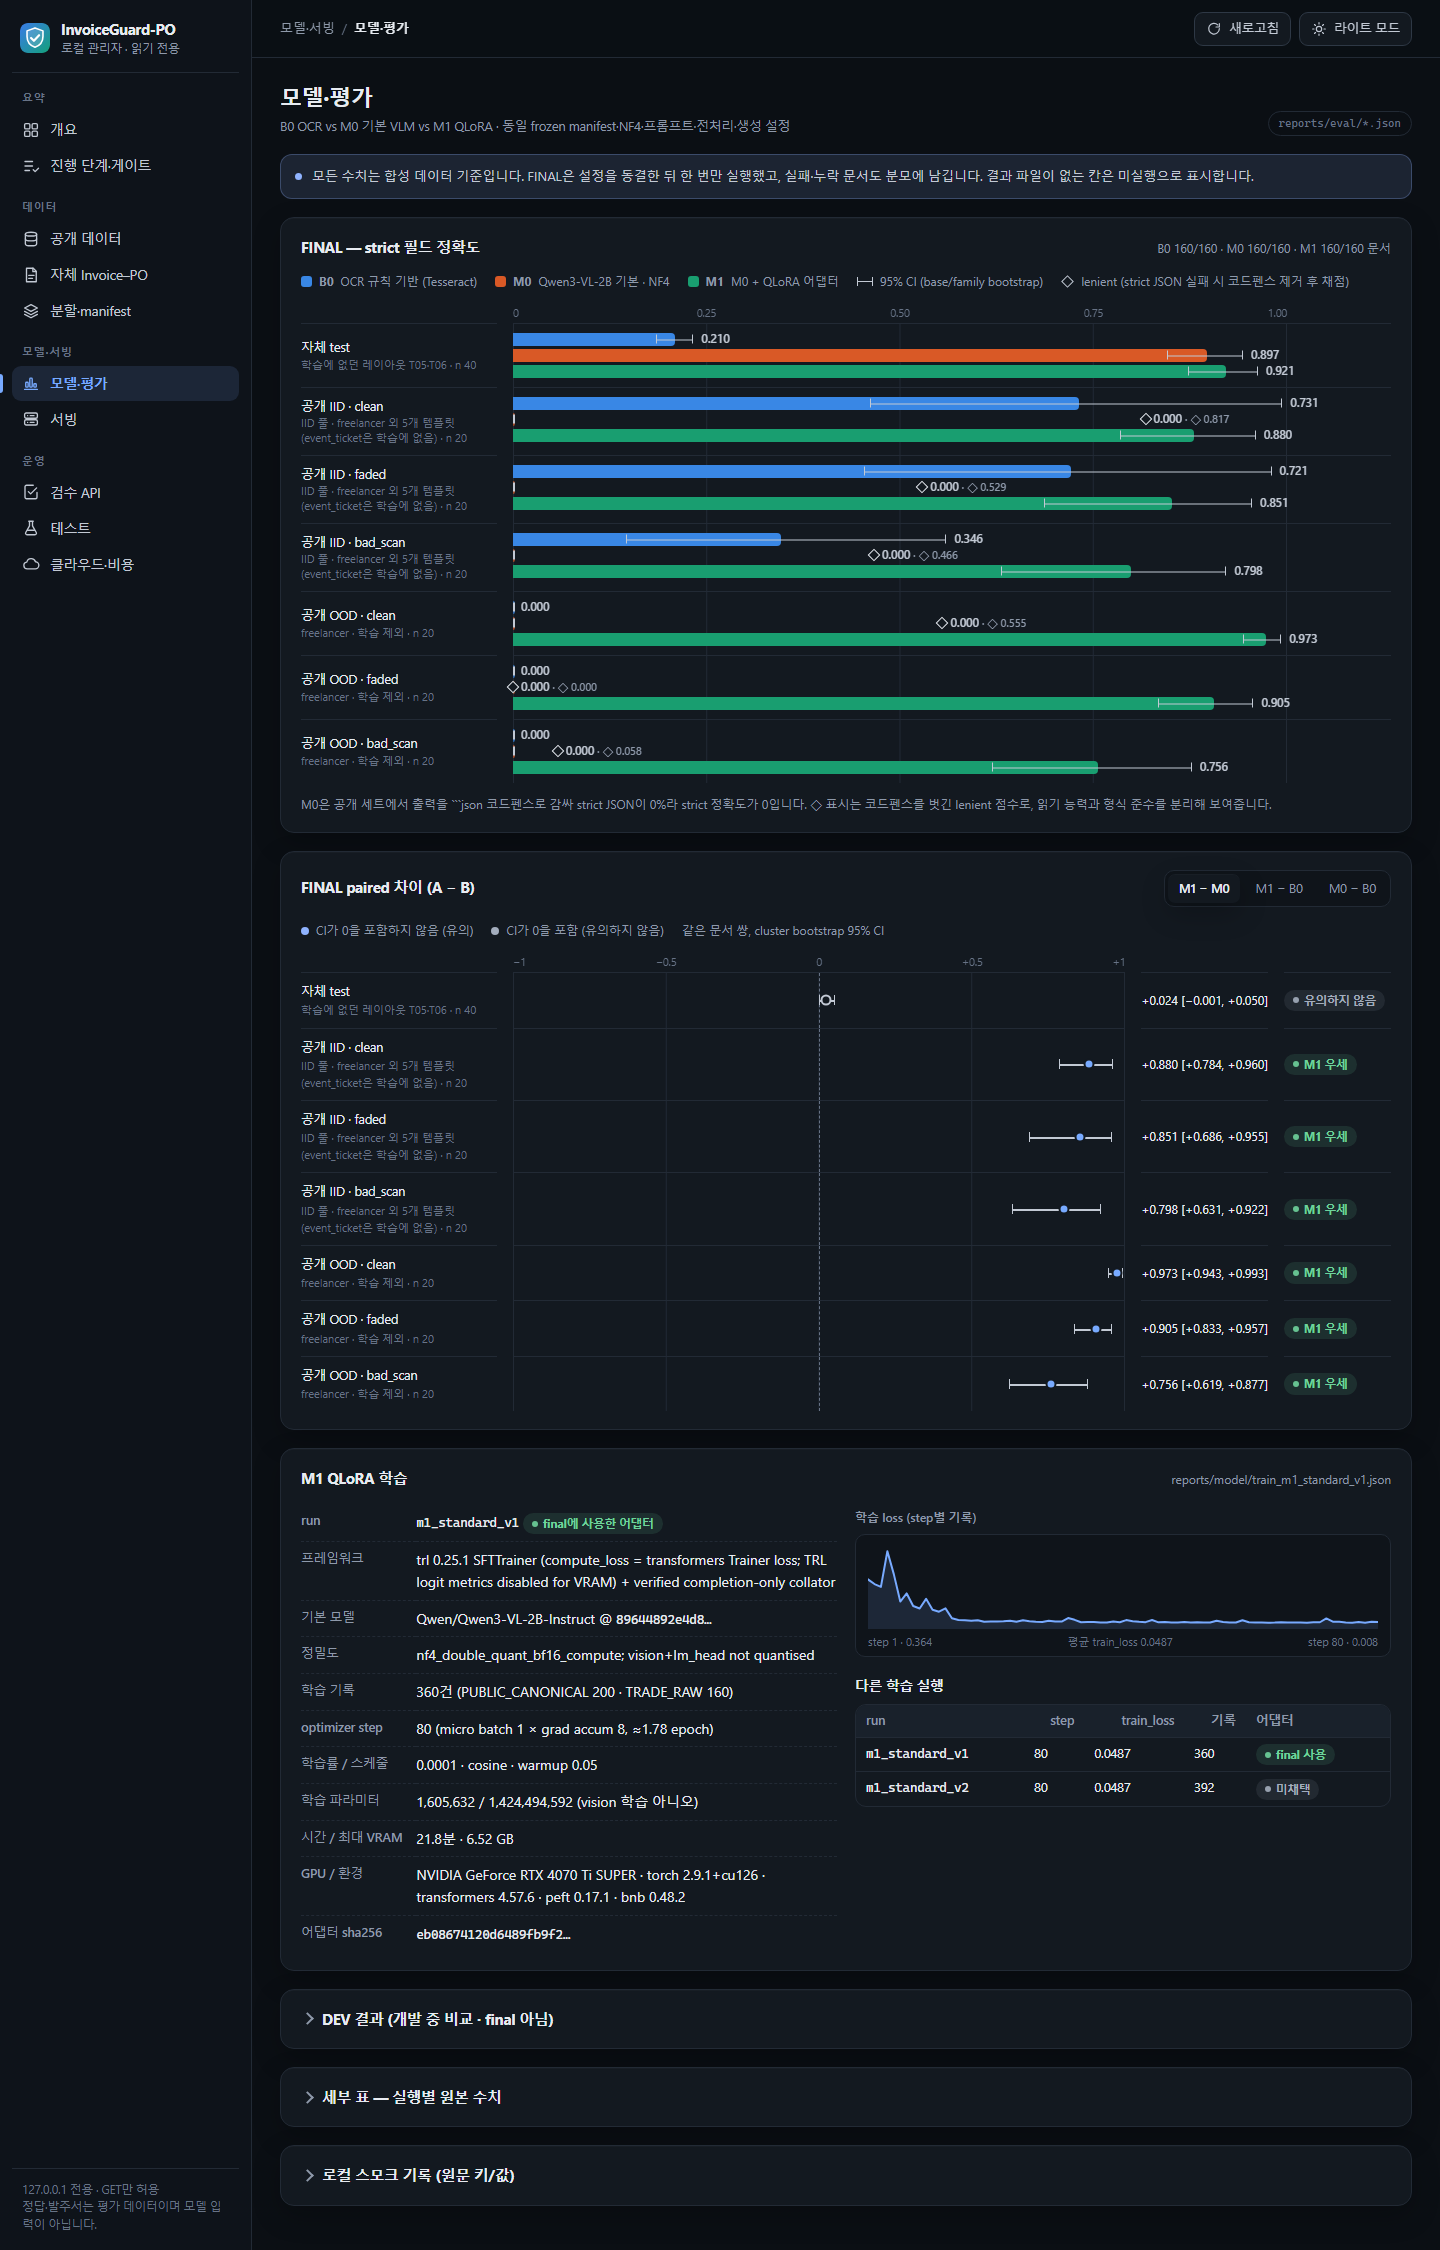
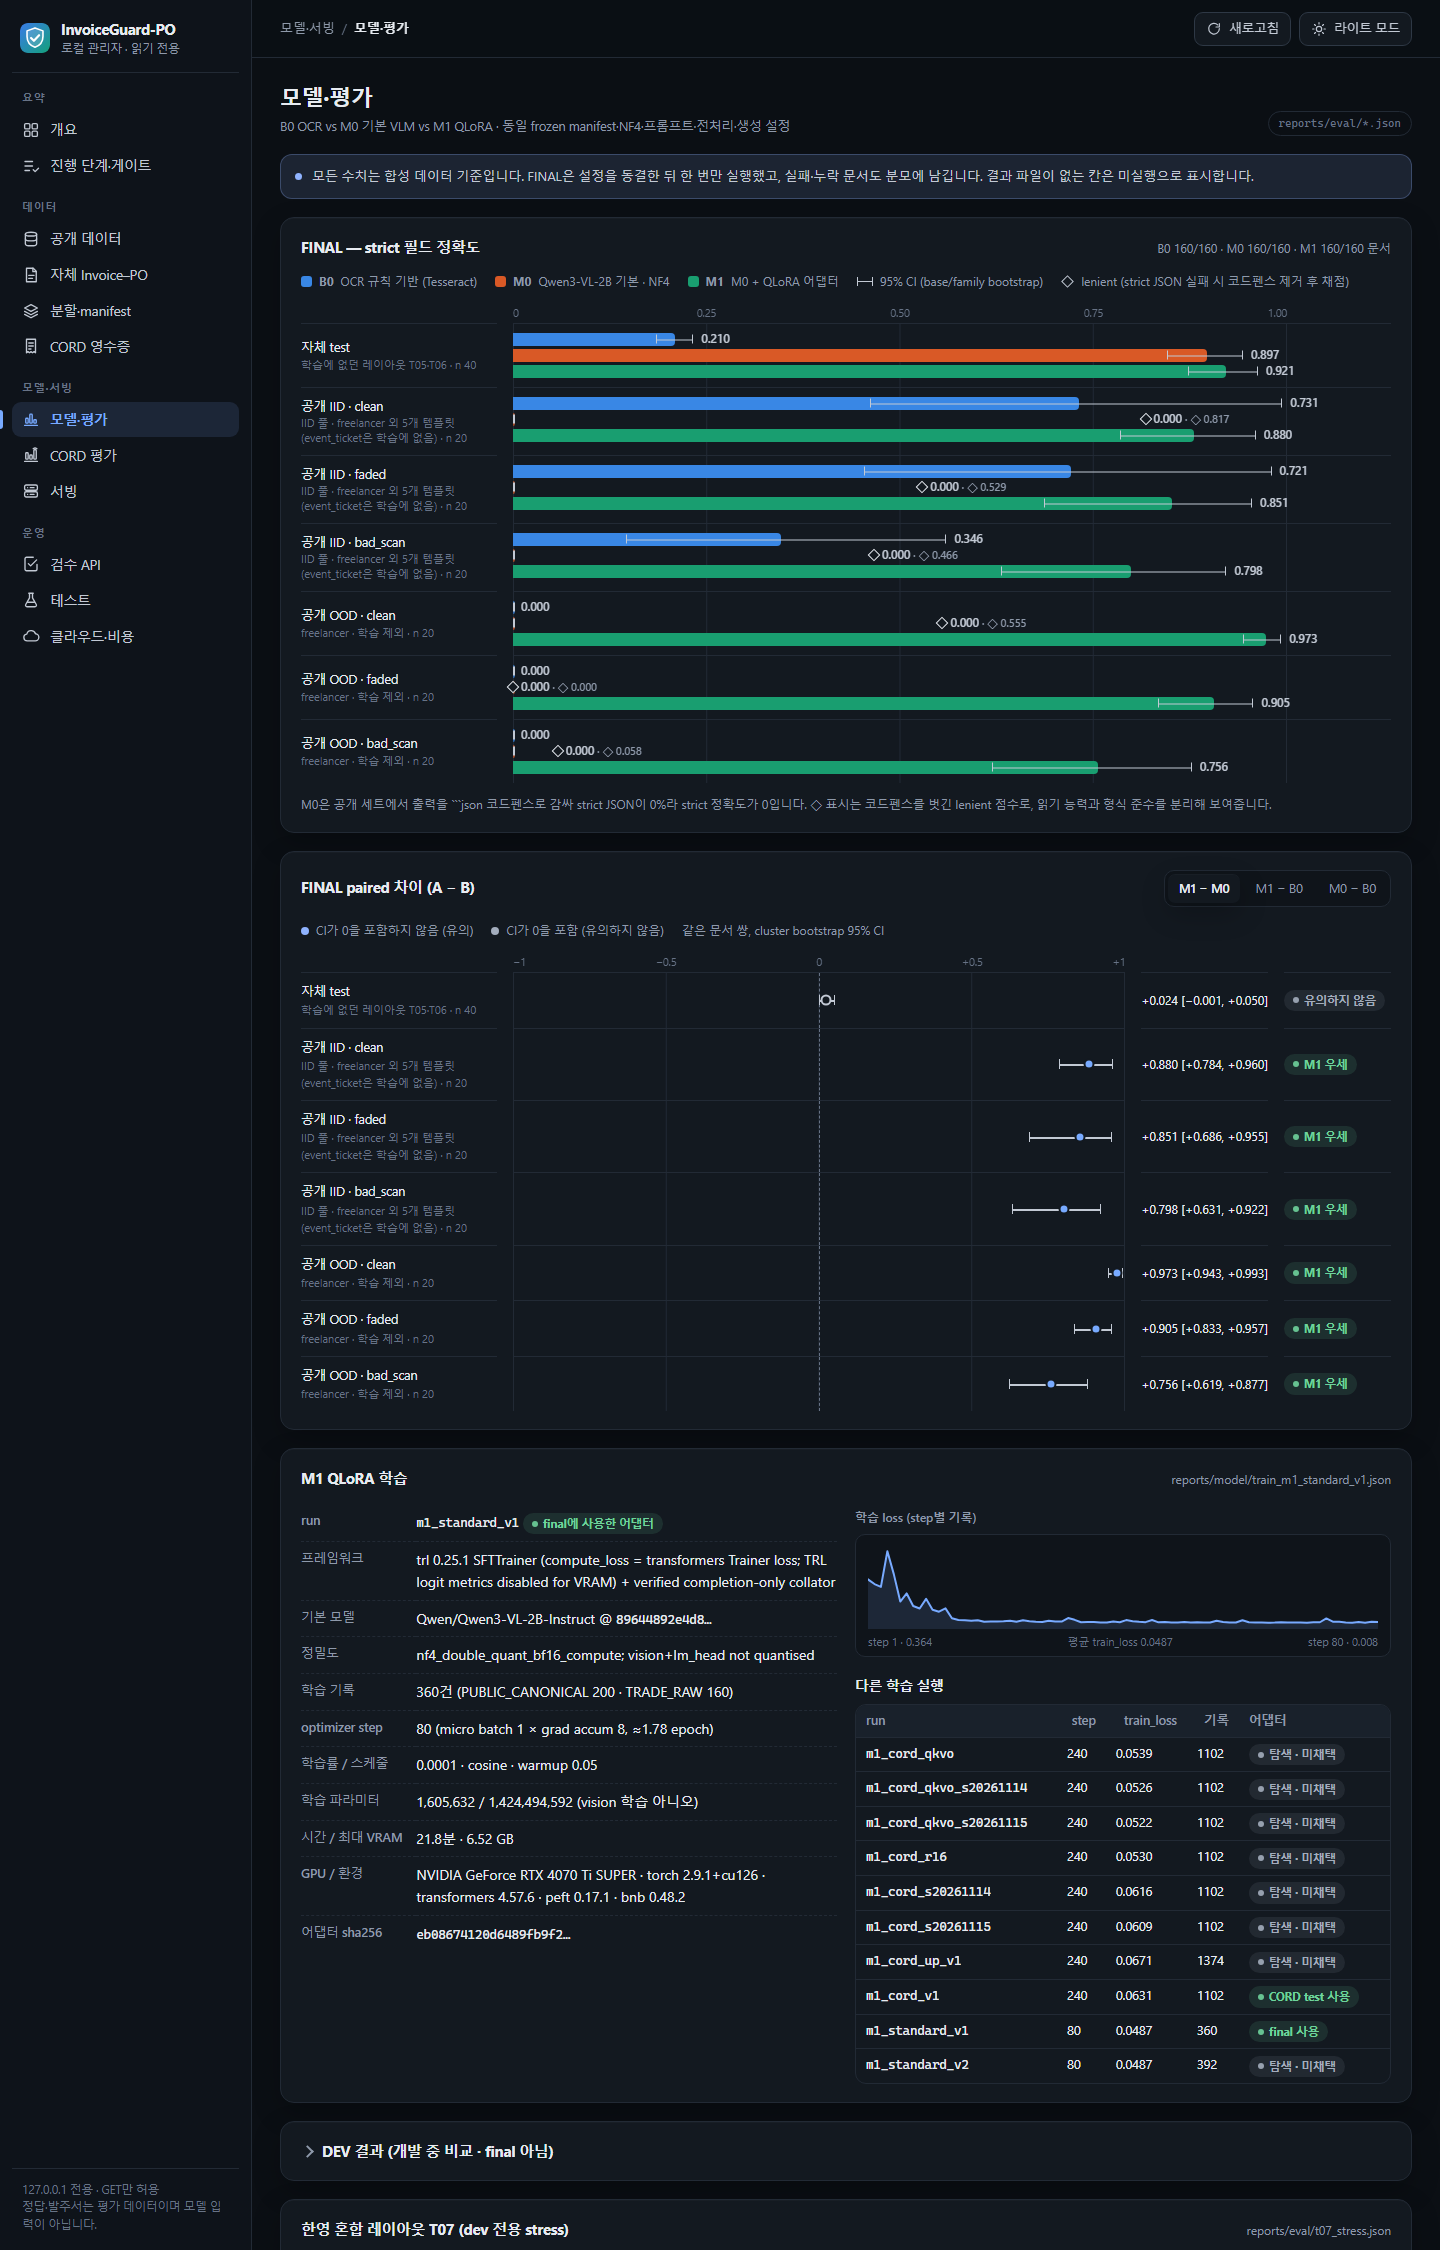
Dashboard refresh: cloud spend from the billing record, serving tile = full-dev parity with two adapters, CORD test adapter labelled; task board T05-T07; new screenshots; review-6 brief for astra

diff --git a/src/invoiceguard/dashboard_static/app.js b/src/invoiceguard/dashboard_static/app.js
@@ -351,7 +351,9 @@
         kpi("FINAL 평가", den.length ? String(Math.min(...den.map((d) => d.predicted))) : "—", den.length ? "/ " + den[0].expected + " 문서" : "",
           den.length ? "동결 후 1회 · " + Object.keys(finals).map((k) => ARMS[k].name).join("·") + " 같은 문서" + (complete ? " · 누락 0" : " · 누락 있음") : "final 기록 없음", complete ? "ok" : den.length ? "warn" : "idle"),
         kpi("CPU 테스트", passed === null ? "—" : String(passed), junit ? "/ " + junit.tests : "", junit ? "건너뜀 " + junit.skipped + " · 실패 " + (junit.failures + junit.errors) + " · " + junit.mtime : "junit 기록 없음", junit && !junit.failures && !junit.errors ? "ok" : "warn", junit ? passed / Math.max(1, junit.tests) : null),
-        kpi("클라우드 지출", ho.active_paid_resources_from_this_project && /^none/.test(ho.active_paid_resources_from_this_project) ? "$0" : "미확인", "", clean(ho.active_paid_resources_from_this_project) || "SESSION_HANDOFF 기록 없음", "idle")),
+        kpi("클라우드 지출", s.billing ? "$" + fmt(s.billing.account_totals_usd.total, 2) : "미확인", "", s.billing
+          ? "청구 기록 · Pod " + (s.billing.pods || []).length + "대 · 현재 유료 리소스 " + ((ho.active_paid_resources_from_this_project || "").startsWith("none") ? "없음" : "확인 필요")
+          : clean(ho.active_paid_resources_from_this_project) || "청구 기록 없음", s.billing ? "ok" : "idle")),
       finalSets.length
         ? h("section", { class: "card" }, h("div", { class: "cardhead" }, h("h2", null, "FINAL 결과 — strict 필드 정확도"), h("a", { href: "#/model" }, "모델·평가에서 자세히 →")),
           armLegend(), armChart(finals, finalSets),
@@ -712,7 +714,7 @@
             : h("p", { class: "sub" }, "loss 기록 없음"),
           runs.length > 1 ? [h("h3", null, "다른 학습 실행"), table(["run", ["step", "num"], ["train_loss", "num"], ["기록", "num"], "어댑터"],
             runs.map((r) => h("tr", null, h("td", { class: "mono" }, r.run_id), h("td", { class: "num" }, String(r.optimizer_steps)), h("td", { class: "num" }, fmt(r.train_loss, 4)),
-              h("td", { class: "num" }, String(r.records)), h("td", null, used(r) ? pillCls("ok", "final 사용") : finalAdapter ? pillCls("idle", "미채택") : "—"))), "small")] : null)));
+              h("td", { class: "num" }, String(r.records)), h("td", null, used(r) ? pillCls("ok", "final 사용") : r.run_id === "m1_cord_v1" ? pillCls("ok", "CORD test 사용") : finalAdapter ? pillCls("idle", "탐색 · 미채택") : "—"))), "small")] : null)));
   }
   // Korean-English mixed layout T07 (docs/20 amendment 6): dev-only stress set, three arms, strict and fence-stripped.
   function t07Card(t) {
@@ -1125,6 +1127,7 @@
     const s = await status();
     const sv = s.serving || {}, ho = s.handoff || {};
     const bench = sv.hf_peft_nf4_local, probe = sv.hf_cancel_probe;
+    const multi = [sv.hf_multi_lora_trade, sv.hf_multi_lora_cord].filter((m) => m && m.arms && m.arms.m1);
     const t07 = (s.tasks || []).find((t) => t.id === "T07");
     const arms = bench ? Object.keys(bench.arms || {}) : [];
     const m1c1 = bench && bench.arms.m1 && bench.arms.m1.bench ? bench.arms.m1.bench["1"] : null;
@@ -1160,7 +1163,10 @@
       ho["vLLM 서빙"] ? banner("vLLM: " + recordedStatus(ho["vLLM 서빙"]) + (s.handoff_decision ? " — 사용자 결정: " + clean(s.handoff_decision) : "")) : t07 ? banner(t07.evidence) : null,
       statusErrors(s),
       bench ? h("div", { class: "kpis" },
-        kpi("서버 = 오프라인 출력", allSame ? "100" : arms.map((a) => fmt(bench.arms[a].identical_raw_rate * 100, 0)).join("/"), "%", "같은 " + (bench.docs || []).length + "문서 원문 출력 일치 (" + arms.map(runName).join("·") + ")", allSame ? "ok" : "warn"),
+        multi.length === 2
+          ? kpi("서버 = 오프라인 출력", multi.every((m) => m.arms.m1.identical_raw_rate === 1) ? "100" : multi.map((m) => fmt(m.arms.m1.identical_raw_rate * 100, 0)).join("/"), "%",
+              "dev 전체 " + multi.map((m) => (m.docs || []).length).join(" + ") + "문서 원문 일치 · 어댑터 2개 서버(M1 v1 · M1-cord)", multi.every((m) => m.arms.m1.identical_raw_rate === 1) ? "ok" : "warn")
+          : kpi("서버 = 오프라인 출력", allSame ? "100" : arms.map((a) => fmt(bench.arms[a].identical_raw_rate * 100, 0)).join("/"), "%", "같은 " + (bench.docs || []).length + "문서 원문 출력 일치 (" + arms.map(runName).join("·") + ")", allSame ? "ok" : "warn"),
         m1c1 ? kpi("M1 지연 p50 · 동시 1", fmt(m1c1.p50_s, 1), "s", "p95 " + fmt(m1c1.p95_s, 1) + "s · 요청 " + m1c1.requests + "건", "run") : null,
         m1c1 ? kpi("M1 처리량 · 동시 1", fmt(m1c1.docs_per_min, 2), "문서/분", "GPU 1개, 배치 1 (동시 생성 없음)", "run") : null,
         probe ? kpi("타임아웃 취소", String(probe.timeout_cancel_test.http_status), "", "제한 " + probe.timeout_cancel_test.request_timeout_s + "s · GPU " + fmt(probe.timeout_cancel_test.gpu_seconds, 2) + "s 후 중단", "ok") : null)

diff --git a/src/invoiceguard/dashboard_server.py b/src/invoiceguard/dashboard_server.py
@@ -412,6 +412,8 @@ def status_body(store: DataStore) -> dict[str, Any]:
     return {
         "tasks": tasks, "gates": gates,
         "evaluations": evaluations, "comparisons": comparisons,
+        "billing": _safe(errors, "reports/runpod2/billing.json", lambda: _read_json(repo / "reports" / "runpod2" / "billing.json"))
+        if (repo / "reports" / "runpod2" / "billing.json").exists() else None,
         "t07": _safe(errors, "reports/eval/t07_stress.json", lambda: _read_json(repo / "reports" / "eval" / "t07_stress.json"))
         if (repo / "reports" / "eval" / "t07_stress.json").exists() else None,
         "hardware": (config or {}).get("hardware"),

diff --git a/reports/TASK_BOARD.md b/reports/TASK_BOARD.md
@@ -10,9 +10,9 @@
 | T02 | 누수 없는 분할·합성 렌더러·채점기·대사 규칙 | 로컬 | passed_with_evidence | 공개 manifest 1495b06a… 누수 0 / 자체 224건 manifest f818ae30… 렌더=정답·family 누수 0 / 대사 B01–B12·평가기 E01–E05 / pytest 106 pass (CPU only) |
 | T03 | 실견적 승인·SSH/백업 검사·모델/10스텝 smoke | 로컬 GPU(승인) / RunPod | passed_with_evidence (local + RunPod) | 로컬: mask 360/360, 파일럿, 10-step QLoRA·재로드 pass. RunPod(2026-11-14, A40, 승인 $3.50): 실견적·호스트키·scp 왕복 SHA256·터널 pass, mask 360/360, 입력 해시 전부 일치, smoke pass, 80 step 재학습이 사전 고정 기준 5개 통과 (reports/runpod/RUNPOD_RUN.md) |
 | T04 | 프로필 동결·M0 기준선·M1 학습/재로드 | 로컬 GPU | passed_with_evidence | standard 동결(configs/frozen_v1.json), TRL M1 80 step·어댑터 eb086741…, 디스크 재로드 추론, M0/M1/B0 dev |
-| T05 | dev 실패 분석·개선 한 가지 | 로컬 | passed_with_evidence (negative) | 실패 분류(reports/eval/failures_m1_dev_v1.md), 개선=train 보강 32건 → 효과 없음, M1 v1 유지(dev_summary.md) |
-| T06 | 검수 UI/API·버전·승인·export | 로컬 | passed_with_evidence (minimal API) | FastAPI+SQLite 검수 API, CAS·스냅샷·429/503/504·재시작 복구. 11-15 검수 화면 추가(GET /, CSP self-only, 업로드 · 추출 · 행 수정 · 경고 사유 · 승인 · 내보내기, 브라우저 확인), API 테스트 15개 |
-| T07 | 실제 GPU API·지연/메모리/실패 측정 | 로컬 GPU / RunPod | passed_with_evidence (HF+PEFT local · vLLM RunPod) | HF 서버: 실제 타임아웃 취소·bounded queue·동시성 측정(reports/serving/). vLLM 0.11.2: 로컬은 드라이버로 blocked, RunPod A40에서 동시성 1–8 측정(실패 0). 실행 1의 vLLM M1 정확도 저하(0.849)는 어댑터·기본 모델 정밀도 불일치로 확인(reports/quant/), 실행 2(L40S)에서 NF4 역양자화 병합본으로 0.960 회복(HF와 같음)·FP8 처리량 +23–33 %(reports/runpod2/). 서버 큐·데드라인 회귀 테스트 6개(tests/test_serving_core.py), 리팩터링한 GPU 서버 실제 요청 6건 원문이 오프라인과 6/6 동일(reports/serving/hf_server_refactor_smoke.json). 11-15 재측정(모든 답 채점·상태 코드·5분 지속 부하): M1 v1 자체 dev, M1-cord CORD dev 모두 원문 10/10 동일, 동시 4 실패는 전부 429, 지속 부하 실패 0(reports/serving/hf_peft_nf4_local_{v2,sustained,cord,cord_sustained}.json) |
+| T05 | dev 실패 분석·개선 한 가지 | 로컬 | passed_with_evidence (합성: negative · CORD: 사전 등록 개선) | 실패 분류(reports/eval/failures_m1_dev_v1.md), 개선=train 보강 32건 → 효과 없음, M1 v1 유지(dev_summary.md). 11-15 CORD dev 사전 등록 시도: 단가 가중 · 프롬프트 = 실패, LoRA q·k·v·o = 단가 회복(seed 3개), 해상도 = 한글 오독 원인(docs/20 수정 3–8) |
+| T06 | 검수 UI/API·버전·승인·export | 로컬 | passed_with_evidence (API + 검수 화면) | FastAPI+SQLite 검수 API, CAS·스냅샷·429/503/504·재시작 복구. 11-15 검수 화면 추가(GET /, CSP self-only, 업로드 · 추출 · 행 수정 · 경고 사유 · 승인 · 내보내기, 브라우저 확인), API 테스트 15개 |
+| T07 | 실제 GPU API·지연/메모리/실패 측정 | 로컬 GPU / RunPod | passed_with_evidence (HF+PEFT local · vLLM RunPod) | HF 서버: 실제 타임아웃 취소·bounded queue·동시성 측정(reports/serving/). vLLM 0.11.2: 로컬은 드라이버로 blocked, RunPod A40에서 동시성 1–8 측정(실패 0). 실행 1의 vLLM M1 정확도 저하(0.849)는 어댑터·기본 모델 정밀도 불일치로 확인(reports/quant/), 실행 2(L40S)에서 NF4 역양자화 병합본으로 0.960 회복(HF와 같음)·FP8 처리량 +23–33 %(reports/runpod2/). 서버 큐·데드라인 회귀 테스트 6개(tests/test_serving_core.py), 리팩터링한 GPU 서버 실제 요청 6건 원문이 오프라인과 6/6 동일(reports/serving/hf_server_refactor_smoke.json). 11-15 한 서버에 어댑터 2개(M1 v1 · M1-cord, 요청마다 선택): dev 전체 자체 24/24 · CORD 100/100 원문 동일, 서버 보고 어댑터 해시 = 오프라인 해시, 5분 지속 부하 44/44, 429 재시도 클라이언트 99/100 · 96/100 · 24/24(reports/serving/hf_multi_lora_*.json) |
 | T08 | M0/M1 동일 frozen final 평가 | 로컬 GPU | passed_with_evidence | 동결 부록 7c5b7f8 후 1회: B0/M0/M1 160/160, reports/eval/final_summary.md |
 | T09 | 결과/어댑터 백업·복원·승인된 과금 리소스 정리 | 로컬 / RunPod | passed_with_evidence (local + RunPod) | 로컬: 41파일 저장소 밖 백업·해시 일치(reports/backup_inventory.json). RunPod 실행 1: 백업 32파일 SHA256 일치·로컬 복원 확인 후 Pod 삭제, list-pods 0·지출률 $0/hr (약 $0.43 추정, reports/runpod/RUNPOD_RUN.md). 실행 2(L40S): 백업 62파일 일치·어댑터 로컬 로드 2/2 동일 후 삭제, list-pods 0 (약 $1.73 추정, reports/runpod2/timeline.md). CORD 트랙 18파일 저장소 밖 백업(reports/backup_inventory_cord.json) |
 

diff --git a/reports/reviews/briefs/review-6-brief.md b/reports/reviews/briefs/review-6-brief.md
@@ -1,4 +1,4 @@
-# 의뢰: 채용 포트폴리오 독립 재평가 (6차) — 감점 사유 중심
+# 의뢰: 채용 포트폴리오 독립 재평가 (6차, astra) — 감점 사유 중심
 
 대상·채용공고·읽을 것·답할 형식은 3차 의뢰(`reports/reviews/briefs/review-3-brief.md`)와 같다. 그 파일의 "채용공고"와 "답할 것"(특히 2번 감점표: 깎은 점수마다 공고 항목, 점수, 구체적 사유, 근거 파일:줄, 5차 이후 고쳐졌는지/남았는지, 되돌리는 방법·시간·비용)을 그대로 따른다. `reports/reviews/briefs/review_constraints.md`의 평가 제외 규칙(PC·시간 한계로 불가능한 작업은 감점·제안에서 제외, 한계를 정직하게 적었는지만 평가)도 그대로 적용한다.
 
@@ -14,8 +14,10 @@
   - 수정 5 LoRA ablation(q·k·v·o, r16) — `reports/eval/compare_cord_dev_m1cordqkvo_nf4__vs__cord_dev_m1cord_nf4.json`, `..._m1cordr16_...`.
   - 수정 6 한영 혼합 레이아웃 T07 30장 — `reports/eval/t07_stress.md`.
   - 수정 7 한글 오독의 해상도 가설 — `reports/eval/t07_stress.md`(고해상도 arm).
+  - 수정 8 (Fable 6차 지적 후 추가, 실행 전에 push 8c62534): A1 seed 2개 반복(`reports/eval/compare_cord_dev_m1cordqkvo_s2026111*_nf4__vs__*.json`) — 단가 회복은 세 seed 모두, 전체 향상은 seed에 견고하지 않음. 해상도의 일반화(`reports/eval/resolution_dev.md`) — 영어 dev 세트에서는 효과 없음.
+- **Fable 6차(95.5, `reports/reviews/fable-6.md`) 이후 추가:** 검수 화면 헤드리스 Chrome 테스트(`tests/test_review_screen_browser.py`), 낡은 문구 정정, 대시보드 최신화(청구 기록 기반 클라우드 지출, 서빙 첫 지표 = dev 전체 원문 일치, 학습 표의 CORD test 어댑터 표시)와 스크린샷 교체, 회귀 게이트 쌍 10개.
 - **문서:** README(요약 · 3.3 · 6 · 7 · 8 · 10 · 11장), 대시보드(서빙 표, T07 카드, 탐색 run 이름), plan.md 단계 6, handoff.md.
-- **아직 하지 않은 것:** M1-cord의 vLLM 서빙(유료 Pod — 로컬 vLLM은 드라이버 한계로 불가), Pod 안 자동 정지 실증, 하위 품목 개선. 단가 하락은 두 번의 사전 등록 시도(수정 3 · 4)가 모두 실패한 채로 한계에 적혀 있다.
+- **아직 하지 않은 것:** M1-cord의 vLLM 서빙(유료 Pod — 로컬 vLLM은 드라이버 한계로 불가), Pod 안 자동 정지 실증, 하위 품목 개선. CORD test의 단가 하락(M1-cord)은 그대로이며, 수정 3 · 4는 실패했고 q·k·v·o(수정 5 · 8)는 dev에서만 세 seed 모두 회복했다(test로는 확인하지 않음).
 
 ## 답할 것 (요약)
 1. 공고 기준 점수(100점 만점, 소수 0.5 단위)와 한 줄 판정.
